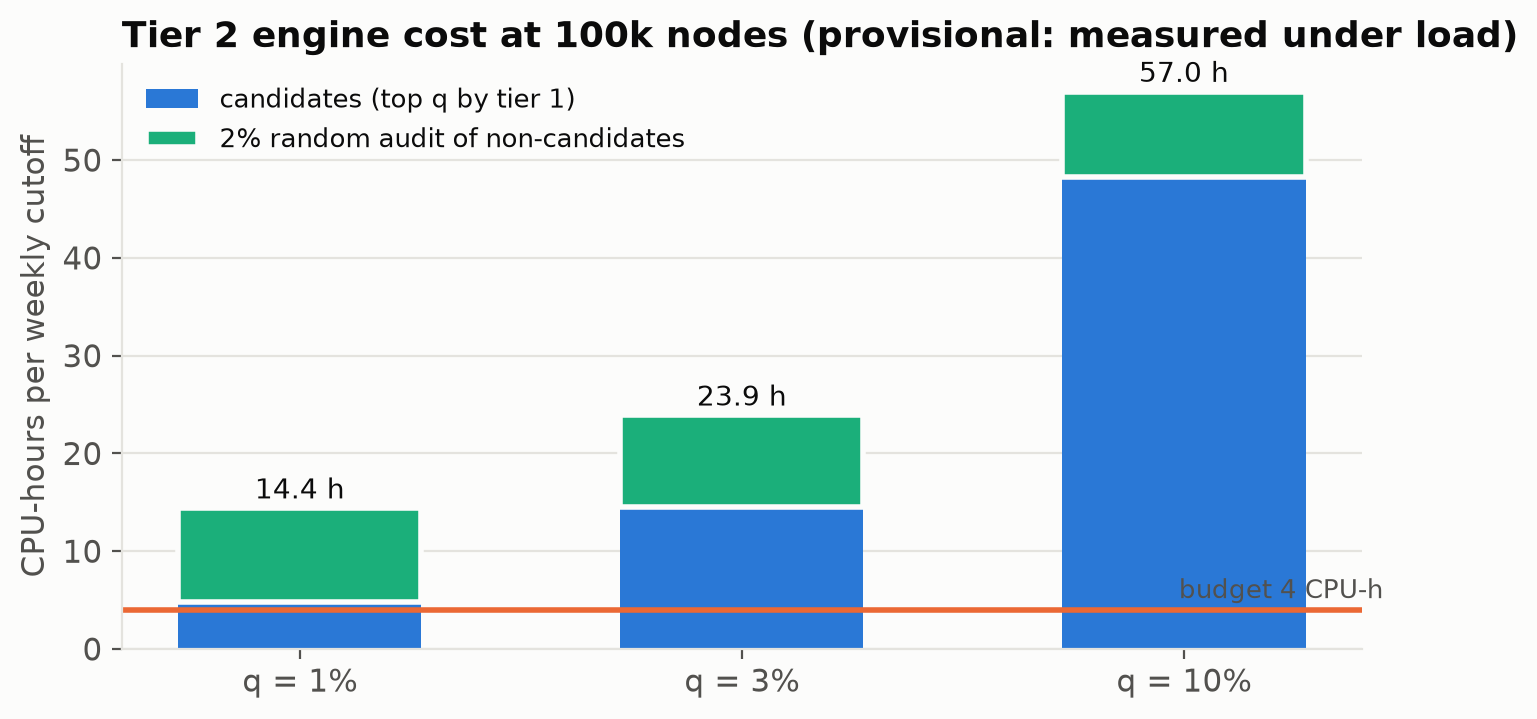
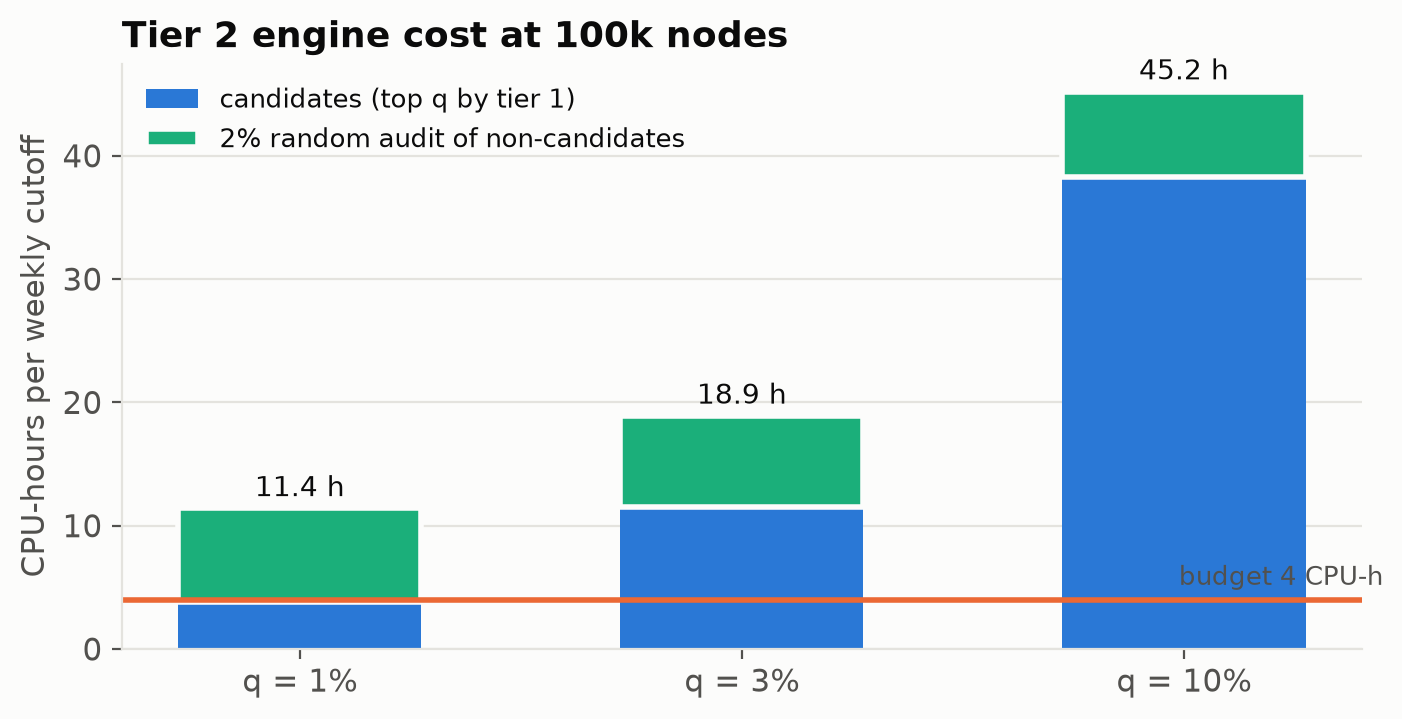
README: synthetic benchmark results and final tier 2 cost

diff --git a/src/fairplay/figures.py b/src/fairplay/figures.py
@@ -150,6 +150,34 @@ def calibration(final: dict) -> Path:
     return save(fig, "05_calibration")
 
 
+def synthetic() -> Path | None:
+    m = metrics("synthetic_score")
+    if "rule" not in m:
+        return None
+    names = {"A": "A: blunt\n50% of moves", "B": "B: moderate\n20% of moves",
+             "C": "C: careful (held out)\n10%, critical only"}
+    strategies = [s for s in names if s in m["auc_vs_control"]]
+    fig, ax = plt.subplots(figsize=(8, 3.8))
+    w = 0.36
+    for j, (label, auc, color) in enumerate([("LightGBM", m["auc_vs_control"], BLUE),
+                                             ("Rule baseline", m["rule"]["auc_vs_control"],
+                                              GRAY)]):
+        xs = [i + (j - 0.5) * w for i in range(len(strategies))]
+        vals = [auc[s] for s in strategies]
+        ax.bar(xs, vals, width=w - 0.04, color=color, label=label)
+        for x, v in zip(xs, vals, strict=True):
+            ax.text(x, v + 0.015, f"{v:.2f}", ha="center", fontsize=10)
+    ax.axhline(0.5, color=ORANGE, lw=1.6)
+    ax.text(len(strategies) - 0.5, 0.52, "chance", color=INK2, fontsize=9.5, ha="right")
+    ax.set_ylim(0, 1.12)
+    ax.set_xticks(range(len(strategies)), [names[s] for s in strategies], fontsize=10)
+    ax.grid(axis="x", visible=False)
+    ax.set_ylabel("AUC vs synthetic honest players")
+    ax.legend(frameon=False, loc="upper right", fontsize=9.5, ncol=2)
+    ax.set_title("Simulated engine use: blunt is obvious, careful is nearly invisible")
+    return save(fig, "07_synthetic_auc")
+
+
 def box(ax, x, y, w, h, title, body, color):
     ax.add_patch(FancyBboxPatch((x, y), w, h, boxstyle="round,pad=0.02,rounding_size=0.08",
                                 fc=SURFACE, ec=color, lw=2))
@@ -224,7 +252,7 @@ def timeline() -> Path:
 def main() -> None:
     final = metrics("final")
     paths = [pipeline(), timeline(), precision(final), fairness(final), calibration(final),
-             monitoring(), tier2_cost()]
+             monitoring(), tier2_cost(), synthetic()]
     for p in paths:
         if p:
             print(p.as_posix())

diff --git a/README.md b/README.md
@@ -101,22 +101,46 @@ week by week shows almost no score drift (PSI ≤ 0.0003; the alert line is 0.2)
 ## Engine cost: measure before building
 
 A second stage would rerank top candidates with Stockfish features. The cost was measured
-first:
-- 237 positions per account at 0.125 s each;
-- the cheapest setting needs 14.4 CPU-hours per week, against a 4-hour budget.
+first, on an idle machine:
+- 237 positions per account at 0.099 s each;
+- the cheapest setting needs 11.4 CPU-hours per week, against a 4-hour budget.
 
-The stage was dropped and the queue stays on tier 1. The timing was taken on a busy machine and
-will be re-measured idle.
+That setting would fit (3.8 hours) only by dropping the 2% random audit, which is the one way
+to see what tier 1 misses. So the stage was dropped and the queue stays on tier 1.
 
 ![Tier 2 cost](assets/figures/03_tier2_cost.png)
 
+## Synthetic benchmark: does it react to engine use?
+
+Real labels are Lichess's own decisions, so a model can score well just by copying their
+detectors. The benchmark checks the model against engine use planted by hand:
+- **Players.** Synthetic players are simulated with Maia, a neural network that plays like
+  humans at a given rating.
+- **Engine accounts.** These swap some of their moves for Stockfish moves. Three strategies are
+  used, and the careful one (C) was held out until the end.
+- **Comparison.** Every result is measured against 750 synthetic honest players from the same
+  generator.
+
+| Generated as | LightGBM queued | Rule queued | AUC vs honest (LightGBM / rule) |
+|---|---|---|---|
+| Honest (750) | 0% | 0% | – |
+| A, blunt: 50% engine moves, instant (200) | 50.5% | 99% | 1.00 / 1.00 |
+| B, moderate: 20%, constant delay (200) | 0% | 7% | 0.79 / 0.93 |
+| C, careful (held out): 10%, critical moves only, human timing (200) | 0% | 0% | 0.58 / 0.70 |
+
+![Synthetic benchmark](assets/figures/07_synthetic_auc.png)
+
+**What this shows.**
+- Neither model ever queued an honest synthetic player.
+- Blunt engine use is obvious to both models. Careful, human-timed engine use is barely
+  separated by either, which is the known limit of behaviour-only signals.
+- The simple rule reacts more than LightGBM on every strategy. The simulated players don't
+  match real ones on 11 features (activity, timing, resignations). So it's open whether
+  LightGBM is thrown off by unrealistic inputs or learned flag patterns that go beyond engine
+  use. Neither explanation is claimed.
+
 ## In progress
 
-- **Synthetic benchmark.**
-  - Players are simulated with Maia, a neural model that plays like humans at a given rating.
-  - Engine-assisted accounts replace some of their moves with Stockfish moves.
-  - There are three strategies, one held out, and results are always compared against
-    synthetic honest controls.
 - **Blind hand review** of 120 accounts by two reviewers, with Cohen's kappa.
 - **Prospective test.** Scores were frozen before the outcome snapshot was fetched.
 
